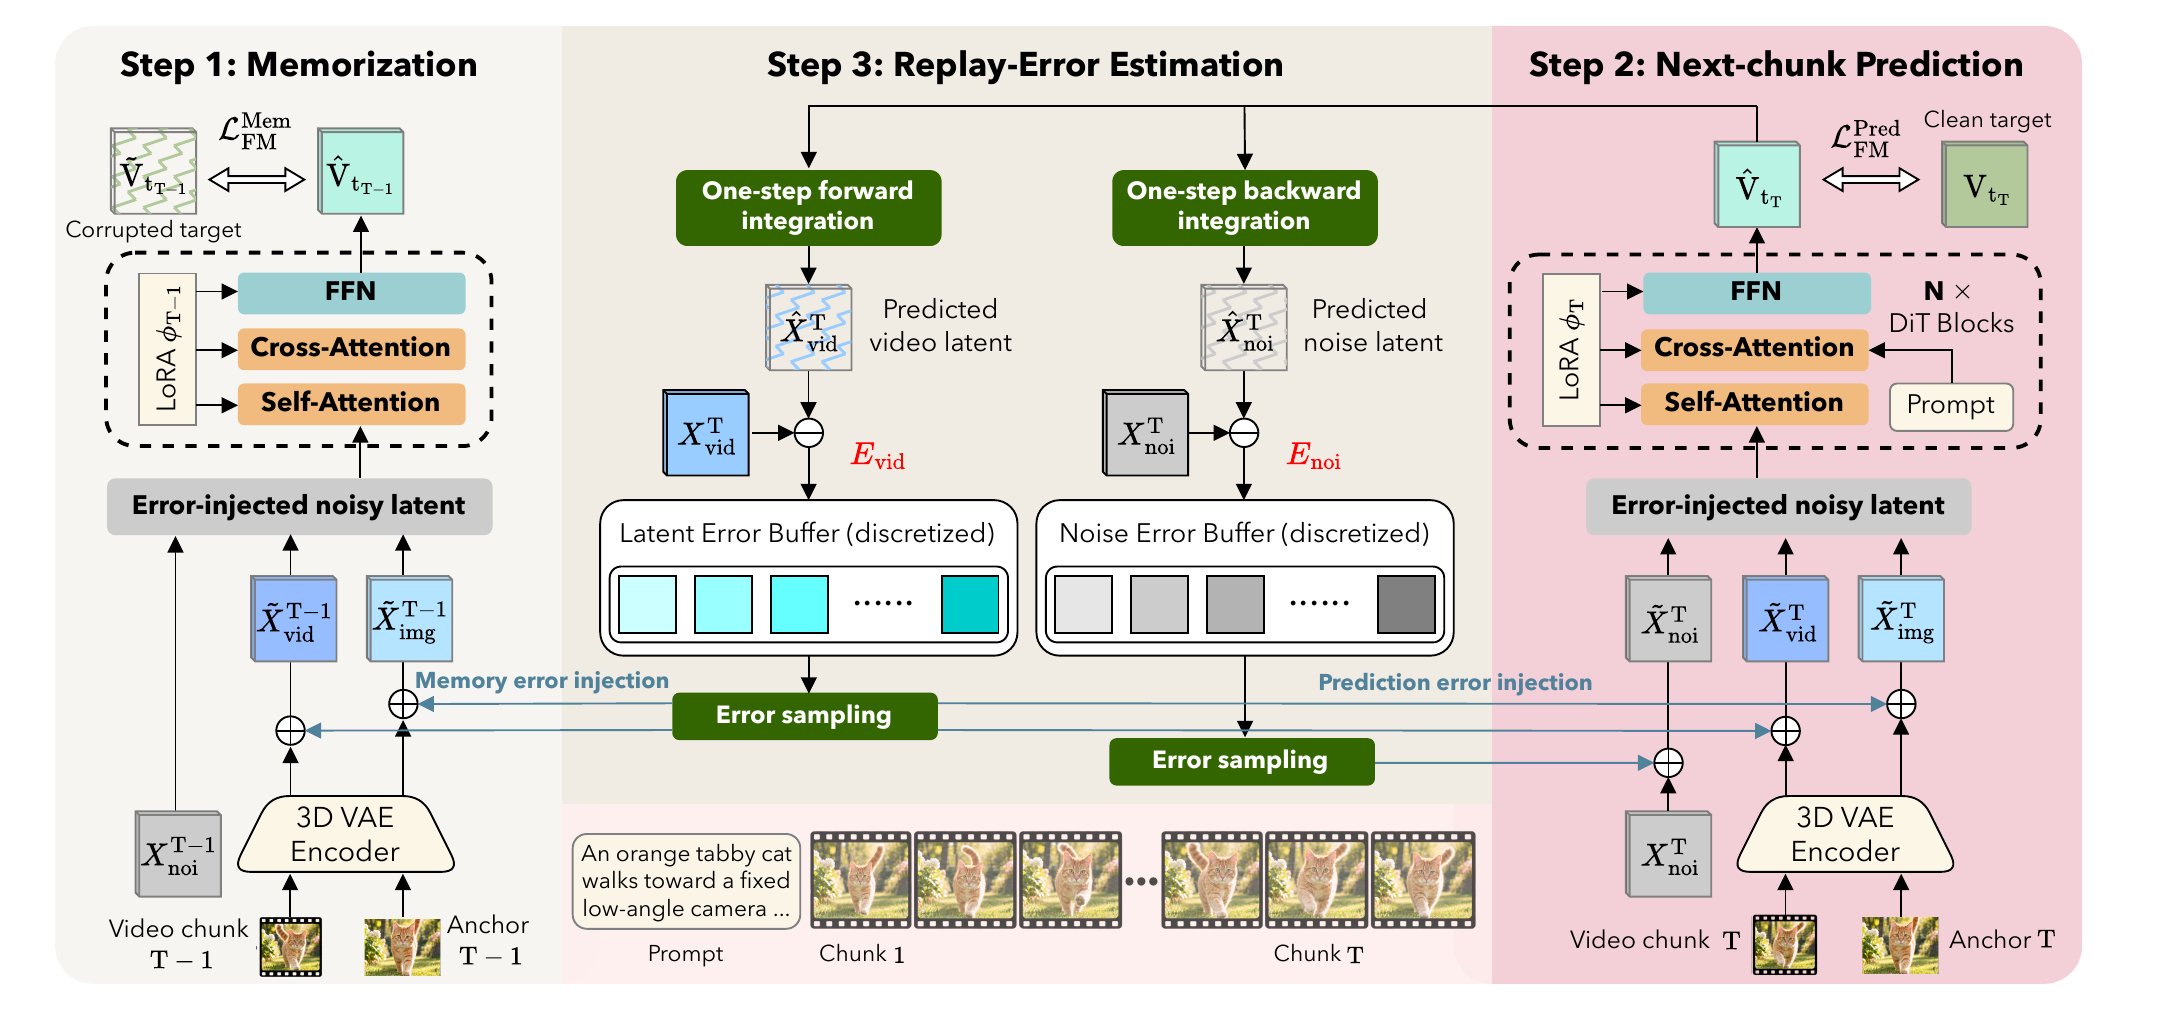
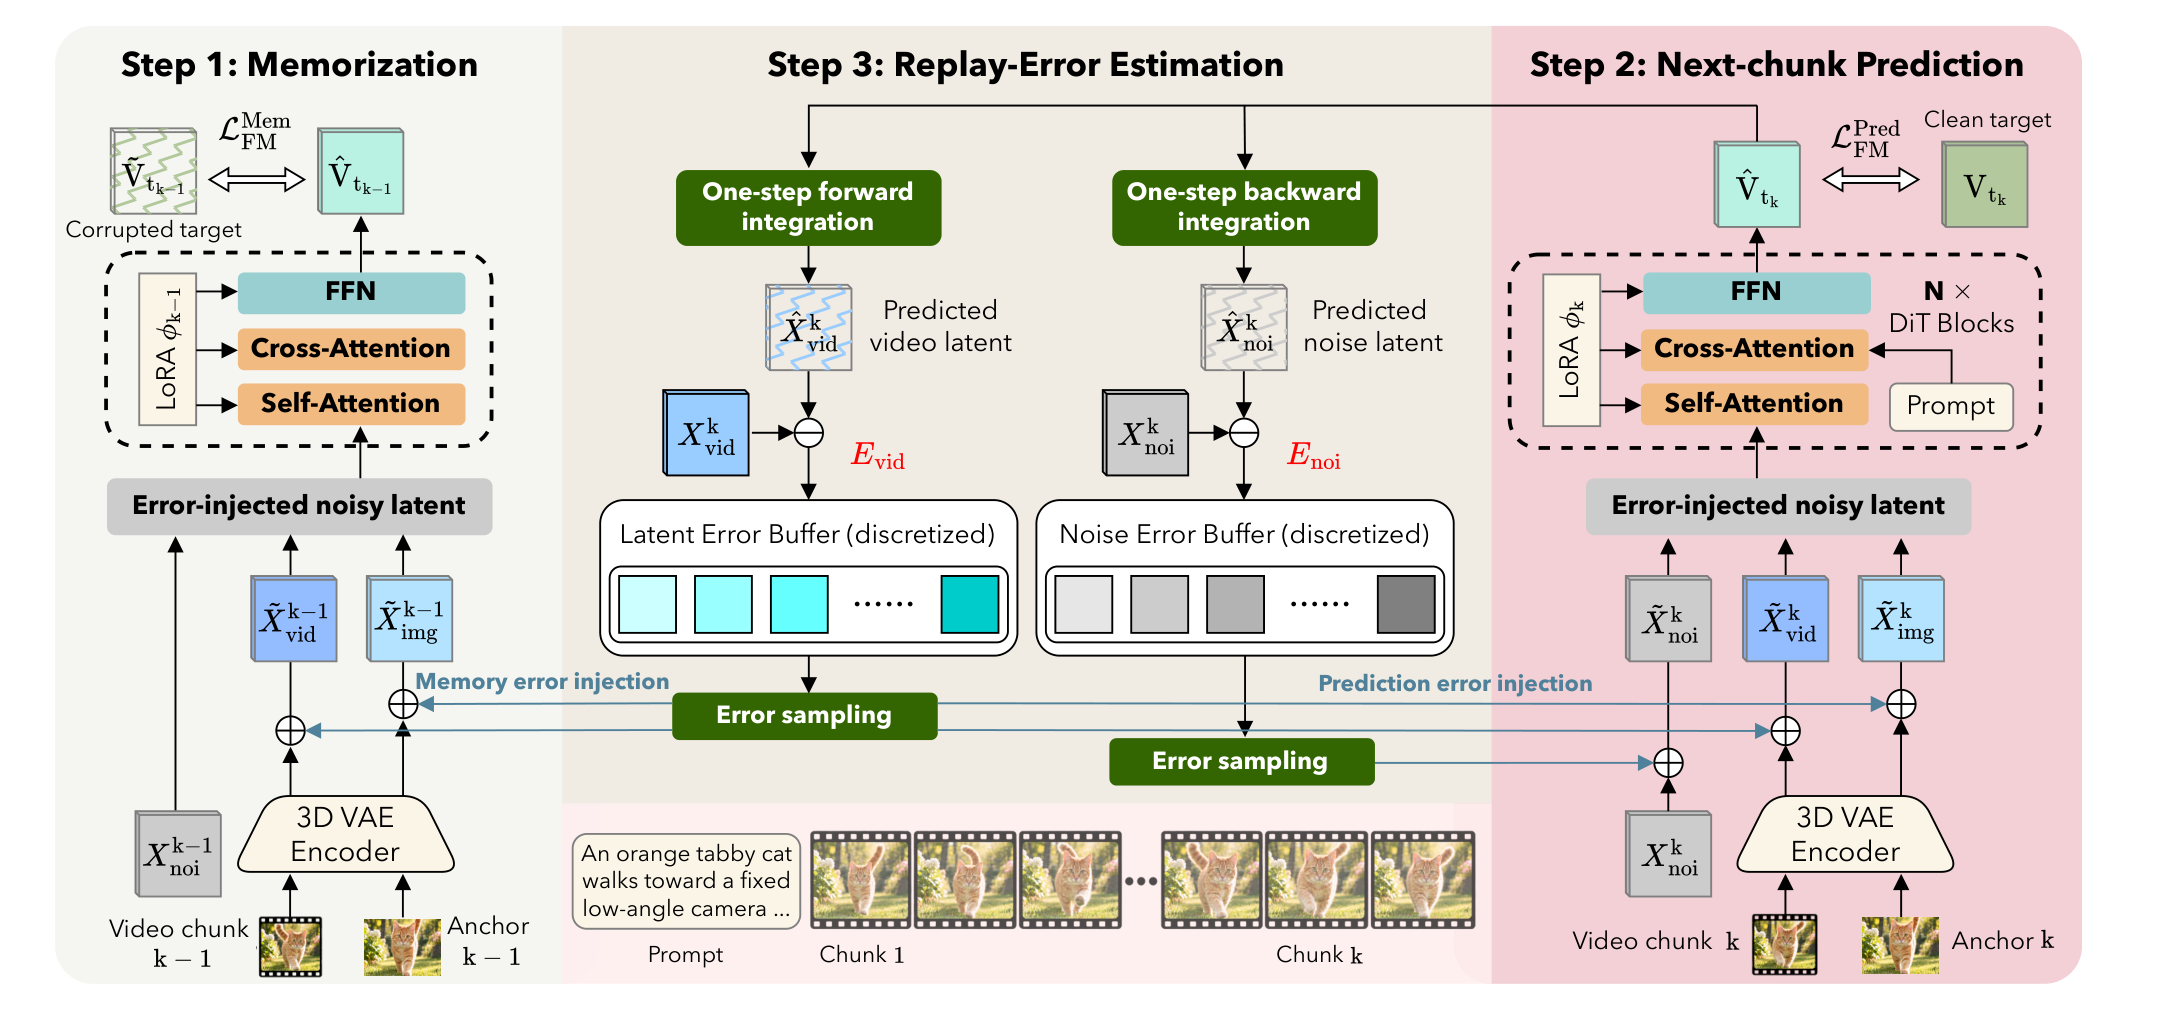
Sync figures with submission version of the paper
Re-render the five figure PNGs from the updated paper PDFs and rename
the third rollout strategy to "Anchor-conditioned chunk-wise AR" to
match the new memory-system figure and the paper's tables.

diff --git a/index.html b/index.html
@@ -297,18 +297,18 @@
                     <p class="demo-group-note">One-minute text-to-video rollouts on the same backbone (Wan2.2-TI2V-5B): only the memory mechanism differs.</p>
                 </div>
                 <figure class="figure">
-                    <img src="./assets/images/memory-system.png" alt="Memory coverage of full-sequence generation, chunk-wise autoregressive generation, input or feature memory, and TTT2Reel parametric memory">
+                    <img src="./assets/images/memory-system.png" alt="Memory coverage of full-sequence generation, chunk-wise autoregressive generation, anchor-conditioned chunk-wise autoregressive generation, and TTT2Reel parametric memory">
                     <figcaption>Memory coverage of the four rollout strategies compared below.</figcaption>
                 </figure>
                 <div class="comparison-matrix">
                     <div class="comparison-method-header strategy-method-header">
                         <span>Full-sequence</span>
                         <span>Chunk-wise AR</span>
-                        <span>Chunk-wise AR + input/feature memory</span>
+                        <span>Anchor-conditioned chunk-wise AR</span>
                         <span class="accent-heading">TTT2Reel (ours)</span>
                         <small>Fails to extrapolate beyond the trained horizon.</small>
                         <small>No memory beyond the previous chunk's last frame; drifts quickly.</small>
-                        <small>The combination of apersistent anchor frame and short window attention helps, but the memory stays capacity-bounded.</small>
+                        <small>The combination of a persistent anchor frame and short window attention helps, but the memory stays capacity-bounded.</small>
                         <small>Parametric LoRA memory, trained end-to-end with error replay.</small>
                     </div>
                     <section class="comparison-row">
@@ -330,7 +330,7 @@
                                 </video>
                             </article>
                             <article class="demo-card">
-                                <h3>Chunk-wise AR + input/feature memory</h3>
+                                <h3>Anchor-conditioned chunk-wise AR</h3>
                                 <video class="gallery-video" loop muted autoplay playsinline controls>
                                     <source src="./assets/videos/5b_t2v_chunkwise_anchor_cleaning_table.mp4" type="video/mp4">
                                 </video>
@@ -362,7 +362,7 @@
                                 </video>
                             </article>
                             <article class="demo-card">
-                                <h3>Chunk-wise AR + input/feature memory</h3>
+                                <h3>Anchor-conditioned chunk-wise AR</h3>
                                 <video class="gallery-video" loop muted autoplay playsinline controls>
                                     <source src="./assets/videos/5b_t2v_chunkwise_anchor_skiing_rabbit.mp4" type="video/mp4">
                                 </video>
